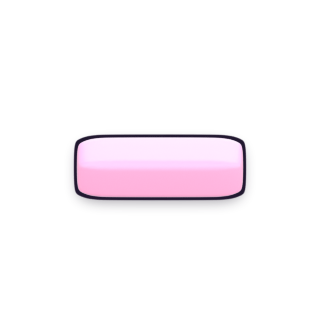
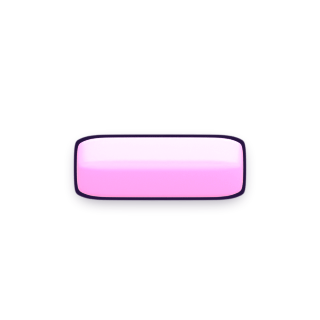
Candy stage: dreamy sky, scalloped frame, deep board
First candy pass was a beige card with a black border - clean, but the
wrong genre. The portal's cute-casual shelf puts a *scene* behind the
board, not a flat colour.

Now: lavender-rose-peach gradient sky with clouds, twinkling stars and
bokeh; a scalloped dot frame in candy yellow; and - the fix that made the
parts read - a deep grape board instead of pink-on-pink, which is the
same dark-ground/bright-accent contrast Pinball Mania gets from maroon
and mint. Rails are drawn twice to read as tubes, and the sprites were
pushed +75% saturation since the macaron pass washed out on a dark board.

Decoration is seeded once so it does not crawl between frames.

Changed region(s): [[0.25, 0.5, 0.7812, 0.5938]]

diff --git a/rebound-tycoon/frontend/js/stage_candy.js b/rebound-tycoon/frontend/js/stage_candy.js
@@ -25,9 +25,38 @@ window.REBOUND_STAGE_CANDY = (() => {
 
   // macaron palette - bright ground, saturated accents, dark contour
   const C = {
-    cloth: ["#fdf3e7", "#ffe7d2"], rim: "#2a1b34", lane: "#ffd9a8",
-    ink: "#3a2a4a", pop: "#ff5c8a", mint: "#5ef0bd", sky: "#5cb8ff", lemon: "#ffd44d",
+    // dreamy sky, not a neutral card: lavender -> rose -> peach, the palette the portal's
+    // cute-casual shelf actually uses.
+    sky: ["#b8a6f0", "#f3a8d8", "#ffcfa8"],
+    board: ["#4a2a6e", "#33195a"], rim: "#ffd44d", rimDark: "#ff7ab8",
+    ink: "#5a3a6e", pop: "#ff5c8a", mint: "#5ef0bd", blue: "#5cb8ff", lemon: "#ffd44d",
   };
+  // decoration is generated once and reused, so it does not crawl between frames
+  const DECO = (() => {
+    const clouds = [], stars = [], bokeh = [];
+    let s = 7;
+    const rnd = () => (s = (s * 16807) % 2147483647) / 2147483647;
+    for (let i = 0; i < 7; i++) clouds.push({ x: rnd(), y: 0.05 + rnd() * 0.85, r: 0.05 + rnd() * 0.05, a: 0.5 + rnd() * 0.4 });
+    for (let i = 0; i < 26; i++) stars.push({ x: rnd(), y: rnd(), r: 2 + rnd() * 3.5, ph: rnd() * 6.28 });
+    for (let i = 0; i < 12; i++) bokeh.push({ x: rnd(), y: rnd(), r: 0.02 + rnd() * 0.05, a: 0.10 + rnd() * 0.14 });
+    return { clouds, stars, bokeh };
+  })();
+
+  function puff(g, cx, cy, r, alpha) {
+    g.globalAlpha = alpha;
+    g.fillStyle = "#ffffff";
+    [[0, 0, 1], [-0.85, 0.18, 0.72], [0.85, 0.18, 0.72], [-0.42, -0.3, 0.66], [0.45, -0.28, 0.6]]
+      .forEach(([dx, dy, s2]) => { g.beginPath(); g.arc(cx + dx * r, cy + dy * r, r * s2, 0, Math.PI * 2); g.fill(); });
+    g.globalAlpha = 1;
+  }
+  function star(g, cx, cy, r, color) {
+    g.fillStyle = color; g.beginPath();
+    for (let i = 0; i < 8; i++) {
+      const a = (i / 8) * Math.PI * 2, rr = i % 2 ? r * 0.38 : r;
+      g[i ? "lineTo" : "moveTo"](cx + Math.cos(a) * rr, cy + Math.sin(a) * rr);
+    }
+    g.closePath(); g.fill();
+  }
   const BUMP = ["bumper_mint", "bumper_sky", "bumper_coral"];
 
   function resize(c) {
@@ -67,26 +96,64 @@ window.REBOUND_STAGE_CANDY = (() => {
     const K = globalThis;
 
     const bg = g.createLinearGradient(0, 0, 0, h);
-    bg.addColorStop(0, C.cloth[0]); bg.addColorStop(1, C.cloth[1]);
+    bg.addColorStop(0, C.sky[0]); bg.addColorStop(0.55, C.sky[1]); bg.addColorStop(1, C.sky[2]);
     g.fillStyle = bg; g.fillRect(0, 0, w, h);
+
+    DECO.bokeh.forEach((b) => {
+      g.globalAlpha = b.a; g.fillStyle = "#ffffff";
+      g.beginPath(); g.arc(b.x * w, b.y * h, b.r * w, 0, Math.PI * 2); g.fill();
+    });
+    g.globalAlpha = 1;
+    DECO.clouds.forEach((c) => puff(g, c.x * w, c.y * h, c.r * w, c.a * 0.5));
+    DECO.stars.forEach((s2) => {
+      const tw = 0.45 + 0.55 * Math.abs(Math.sin(fx.t * 1.4 + s2.ph));
+      g.globalAlpha = tw * 0.85;
+      star(g, s2.x * w, s2.y * h, s2.r, "#fffdf4");
+    });
+    g.globalAlpha = 1;
 
     // playfield card with a fat rounded border - the "chunky" cue
     const T = K.TABLE || { left: 0.075, right: 0.855, top: 0.055 };
+    const bx = px(T.left - 0.035, w), by = py(T.top - 0.03, h);
+    const bw = px(T.right - T.left + 0.07, w), bh = py(0.945, h);
+
+    // scalloped candy frame: a ring of dots behind the board reads as "cute" far faster
+    // than any amount of shading does
+    const per = 26, rr = 9;
+    g.fillStyle = C.rim;
+    for (let i = 0; i <= per; i++) {
+      const u = i / per;
+      g.beginPath(); g.arc(bx + u * bw, by - 3, rr, 0, Math.PI * 2); g.fill();
+      g.beginPath(); g.arc(bx + u * bw, by + bh + 3, rr, 0, Math.PI * 2); g.fill();
+    }
+    const perV = 17;
+    for (let i = 0; i <= perV; i++) {
+      const v = i / perV;
+      g.beginPath(); g.arc(bx - 3, by + v * bh, rr, 0, Math.PI * 2); g.fill();
+      g.beginPath(); g.arc(bx + bw + 3, by + v * bh, rr, 0, Math.PI * 2); g.fill();
+    }
+
     g.save();
-    g.beginPath();
-    g.roundRect(px(T.left - 0.03, w), py(T.top - 0.03, h),
-                px(T.right - T.left + 0.06, w), py(0.94, h), 26);
-    g.fillStyle = "#fffaf2"; g.fill();
-    g.lineWidth = 9; g.strokeStyle = C.rim; g.stroke();
+    g.shadowColor = "rgba(120,60,140,.35)"; g.shadowBlur = 26; g.shadowOffsetY = 8;
+    g.beginPath(); g.roundRect(bx, by, bw, bh, 34);
+    const boardG = g.createLinearGradient(0, by, 0, by + bh);
+    boardG.addColorStop(0, C.board[0]); boardG.addColorStop(1, C.board[1]);
+    g.fillStyle = boardG; g.fill();
+    g.shadowColor = "transparent"; g.shadowBlur = 0; g.shadowOffsetY = 0;
+    g.lineWidth = 10; g.strokeStyle = C.rim; g.stroke();
+    g.lineWidth = 4; g.strokeStyle = C.rimDark; g.stroke();
     g.clip();
 
-    g.strokeStyle = "rgba(94,240,189,.35)"; g.lineWidth = 5;
+    g.strokeStyle = "rgba(255,212,77,.22)"; g.lineWidth = 6;
     for (let i = 1; i <= 4; i++) {
       g.beginPath(); g.arc(px(0.46, w), py(0.46, h), px(0.075 * i, w), 0, Math.PI * 2); g.stroke();
     }
 
-    g.strokeStyle = C.rim; g.lineWidth = 8; g.lineCap = "round";
+    g.strokeStyle = "#7de8ff"; g.lineWidth = 13; g.lineCap = "round";
     (K.WALLS || []).forEach((wl) => {
+      g.strokeStyle = "#1d6a86"; g.lineWidth = 15;
+      g.beginPath(); g.moveTo(px(wl[0], w), py(wl[1], h)); g.lineTo(px(wl[2], w), py(wl[3], h)); g.stroke();
+      g.strokeStyle = "#7de8ff"; g.lineWidth = 9;
       g.beginPath(); g.moveTo(px(wl[0], w), py(wl[1], h)); g.lineTo(px(wl[2], w), py(wl[3], h)); g.stroke();
     });
 
@@ -125,7 +192,7 @@ window.REBOUND_STAGE_CANDY = (() => {
     }
 
     if (state.mode === "plunge") {
-      g.fillStyle = C.ink; g.font = "800 15px ui-rounded, ui-sans-serif, system-ui";
+      g.fillStyle = "#ffe9a8"; g.font = "800 16px ui-rounded, ui-sans-serif, system-ui";
       g.textAlign = "center";
       g.fillText(opts.hint || "HOLD SPACE", px(0.465, w), py(0.72, h));
     }
@@ -141,7 +208,7 @@ window.REBOUND_STAGE_CANDY = (() => {
       g.beginPath(); g.arc(p.x, p.y, 3.5, 0, Math.PI * 2); g.fill();
     });
     fx.drops.forEach((p) => {
-      g.globalAlpha = 1 - p.age / p.life; g.fillStyle = C.sky;
+      g.globalAlpha = 1 - p.age / p.life; g.fillStyle = C.blue;
       g.beginPath(); g.arc(p.x, p.y, 3, 0, Math.PI * 2); g.fill();
     });
     g.globalAlpha = 1;
